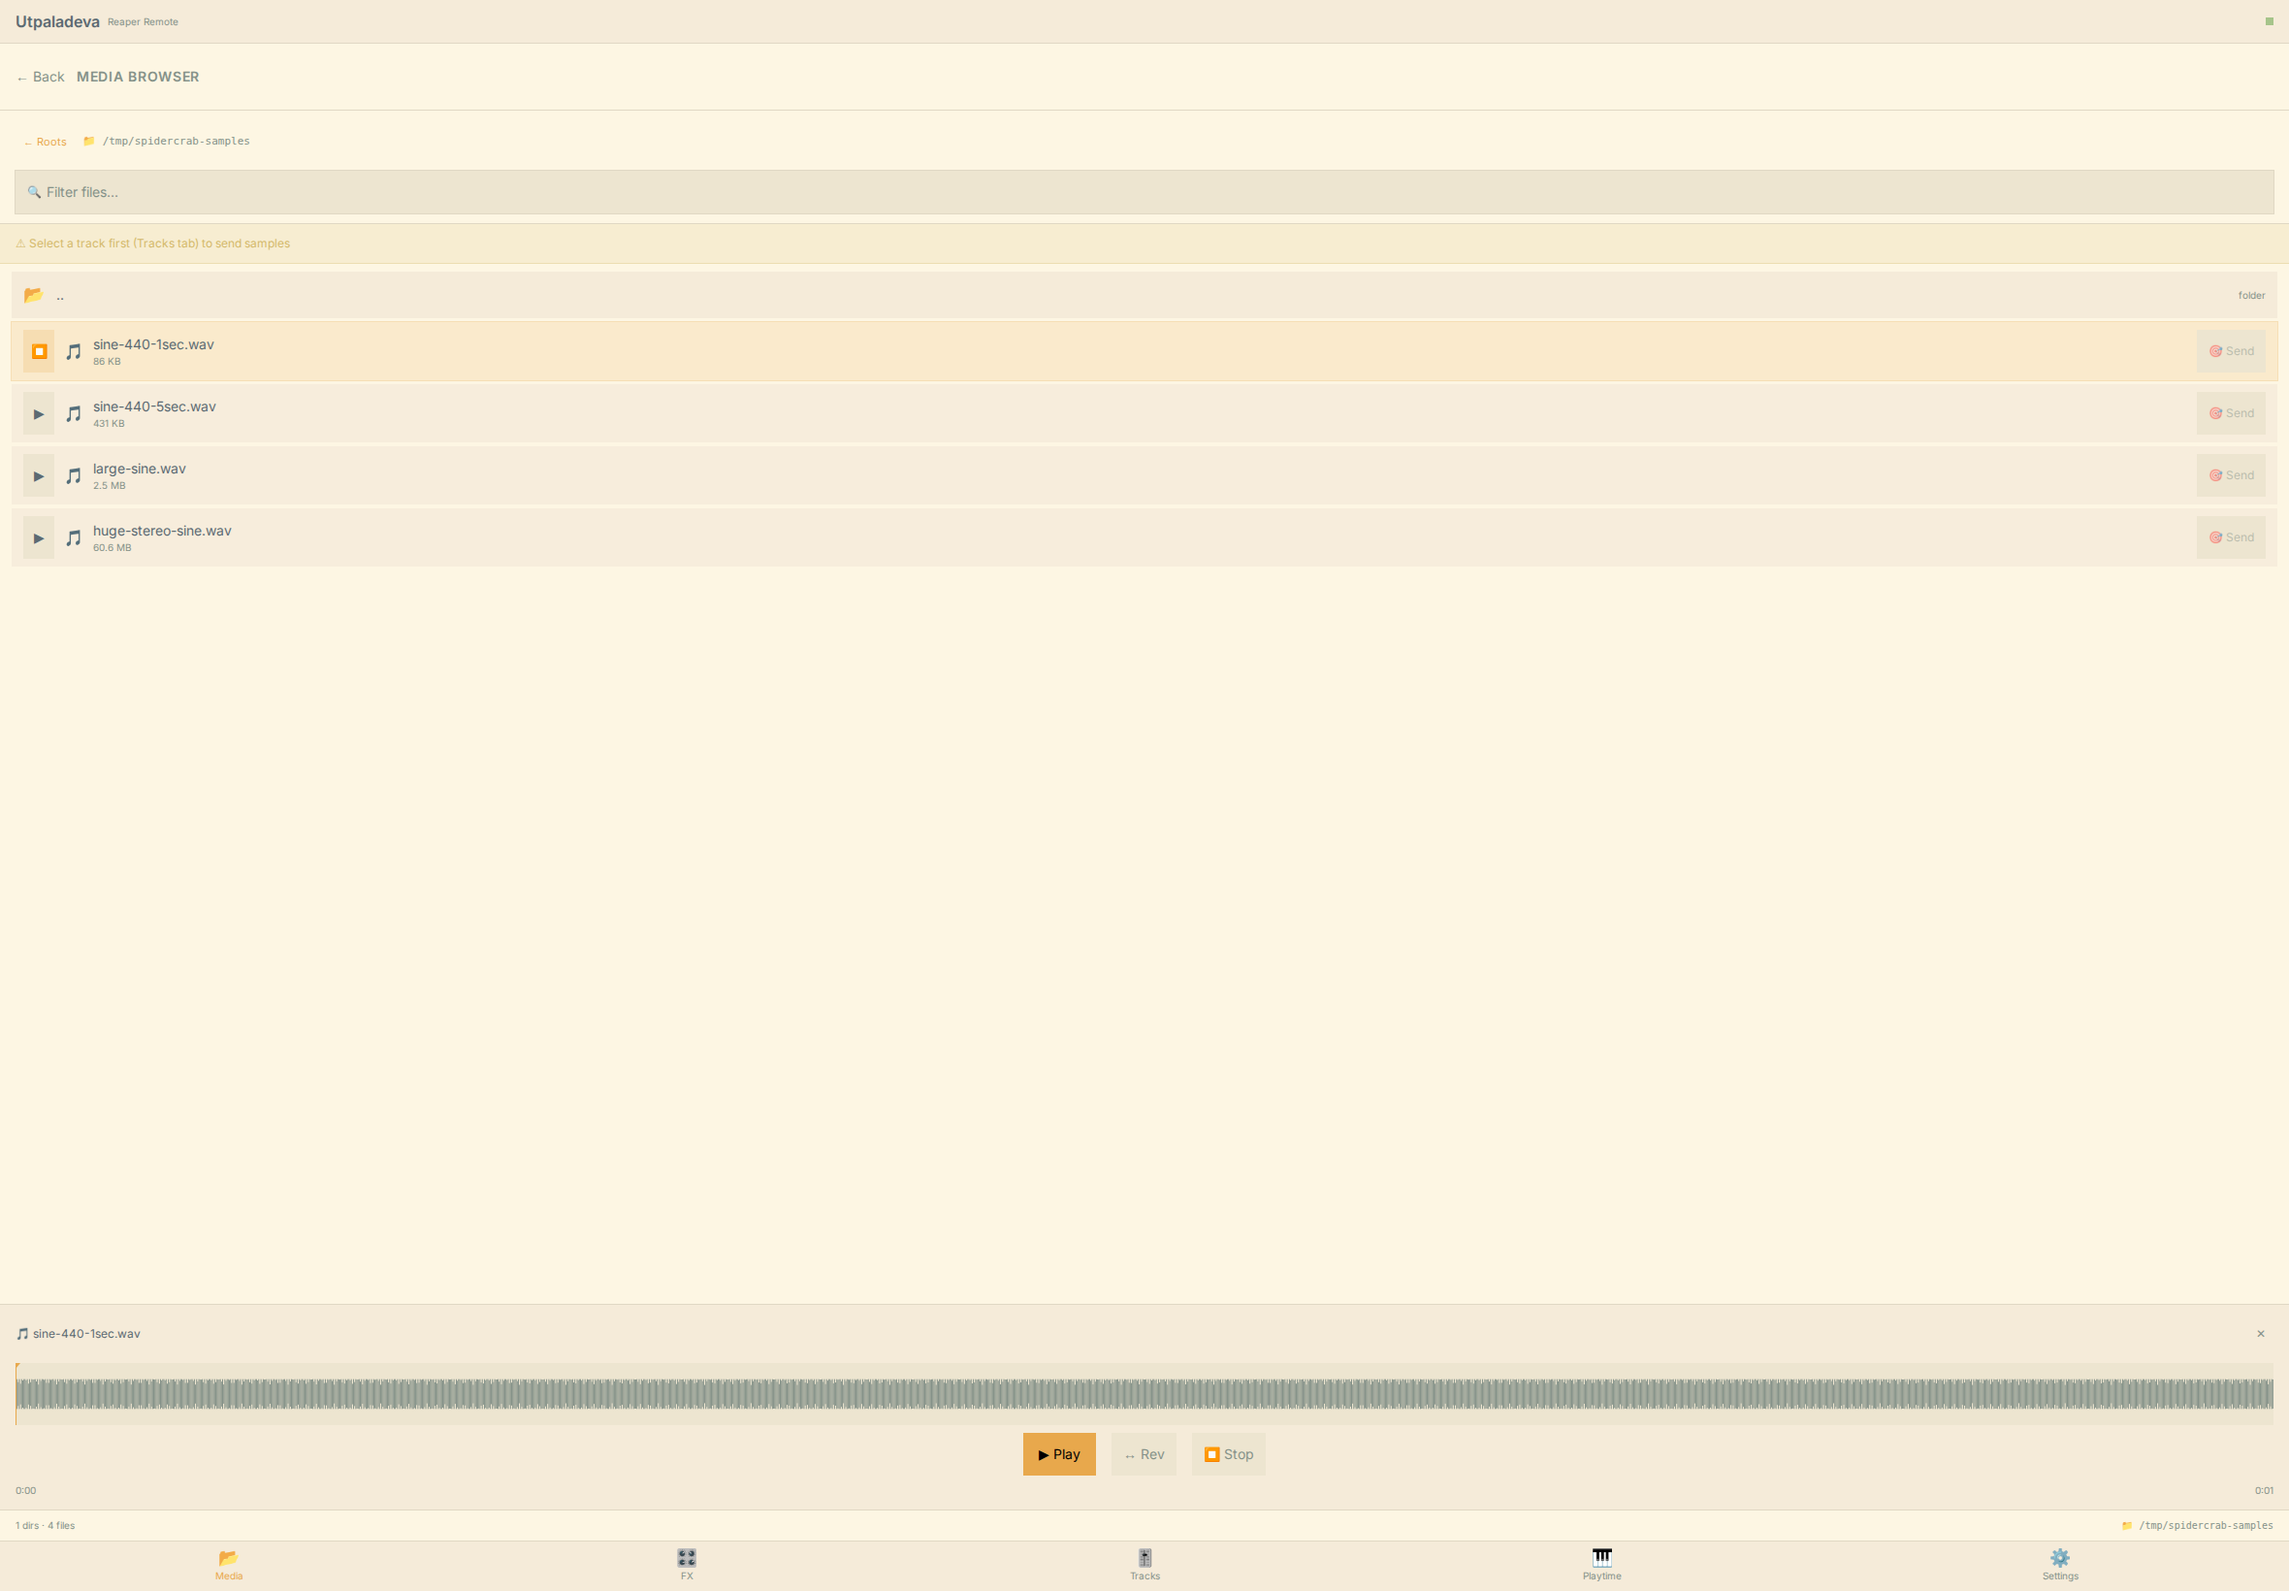
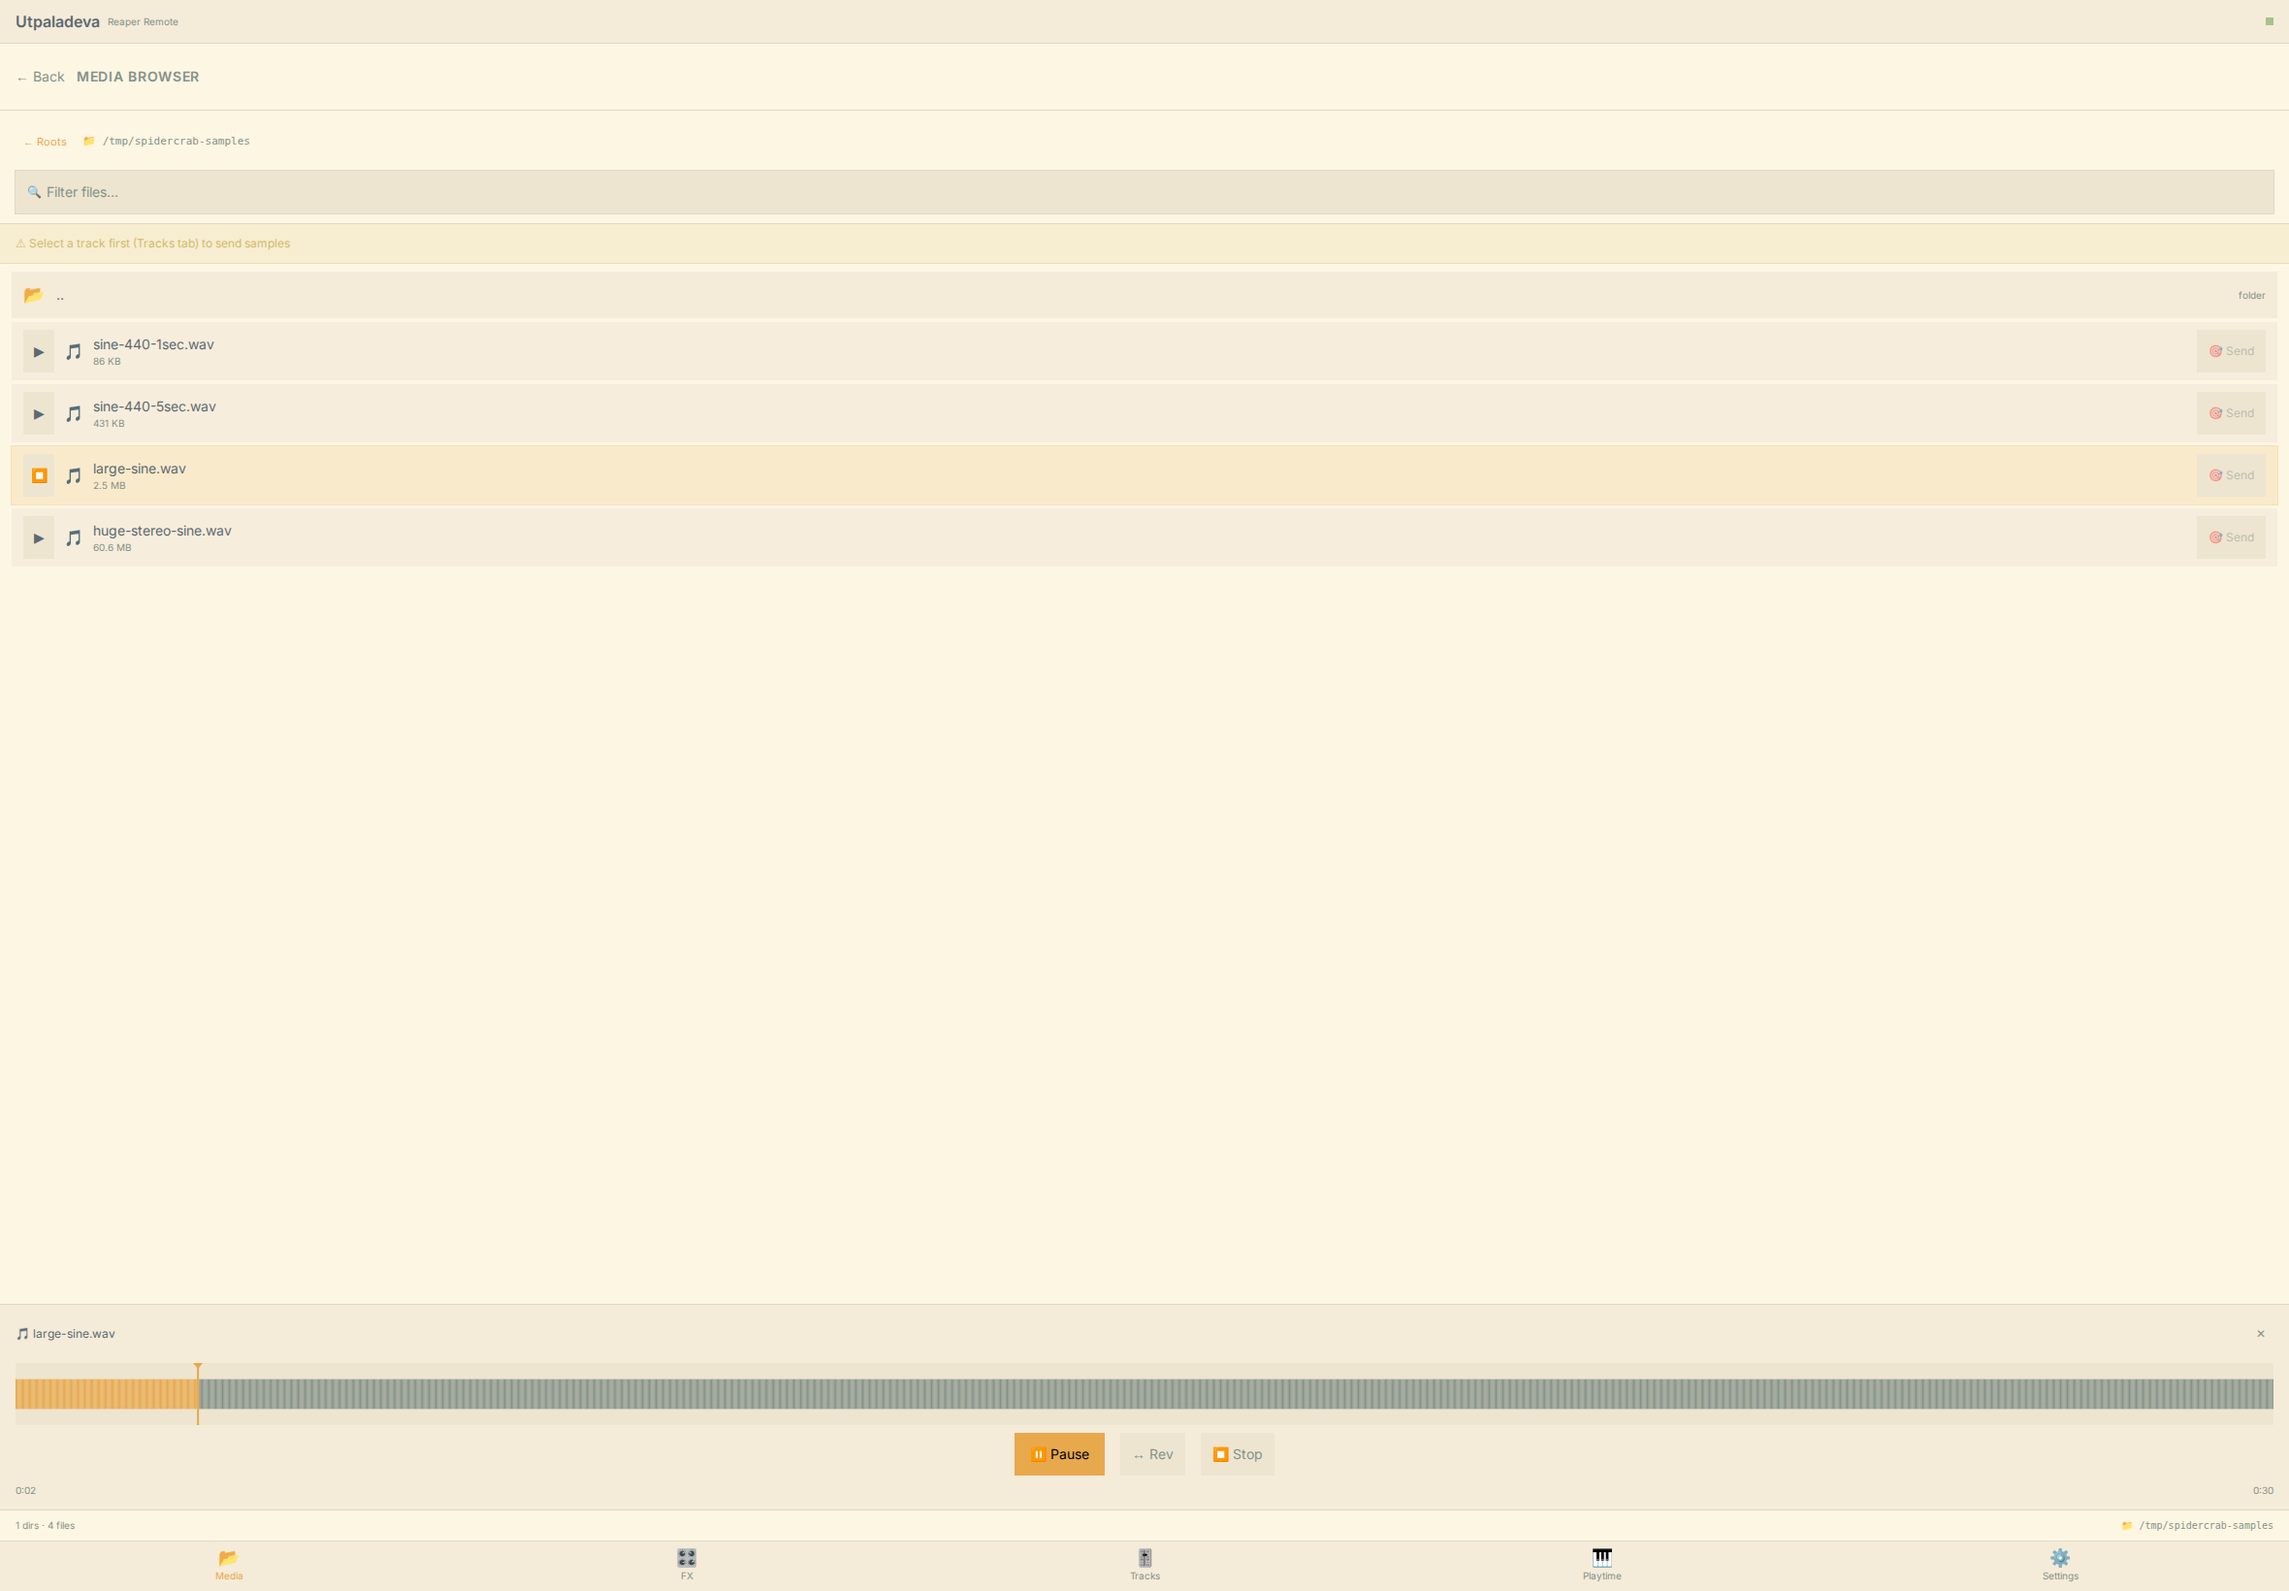
docs: better README screenshots showing touch-friendly UI
- ss-playtime.png: Playtime grid with clip names (2360x1640)
- ss-fx.png: FX browser with inline search + add (2360x1640)
- ss-waveform.png: Sample browser with waveform playing (2360x1640)
- ss-tracks.png: Track controls per column headers (2360x1640)
- Display width bumped from 240→320 for readability

diff --git a/README.md b/README.md
@@ -7,12 +7,12 @@
 <div align="center">
   <table>
     <tr>
-      <td><img src="docs/screenshots/ss-playtime-grid.png" width="240" alt="Playtime clip grid with names" /></td>
-      <td><img src="docs/screenshots/ss-fx-search.png" width="240" alt="FX browser with inline search" /></td>
+      <td><img src="docs/screenshots/ss-playtime.png" width="320" alt="Playtime 2 clip grid with clip names" /></td>
+      <td><img src="docs/screenshots/ss-fx.png" width="320" alt="FX browser with inline search and add" /></td>
     </tr>
     <tr>
-      <td><img src="docs/screenshots/ss-waveform.png" width="240" alt="Sample browser with waveform preview" /></td>
-      <td><img src="docs/screenshots/ss-sample-sent.png" width="240" alt="Sample sent to Playtime slot" /></td>
+      <td><img src="docs/screenshots/ss-waveform.png" width="320" alt="Sample browser with waveform preview playing" /></td>
+      <td><img src="docs/screenshots/ss-tracks.png" width="320" alt="Track controls per Playtime column" /></td>
     </tr>
   </table>
 </div>
